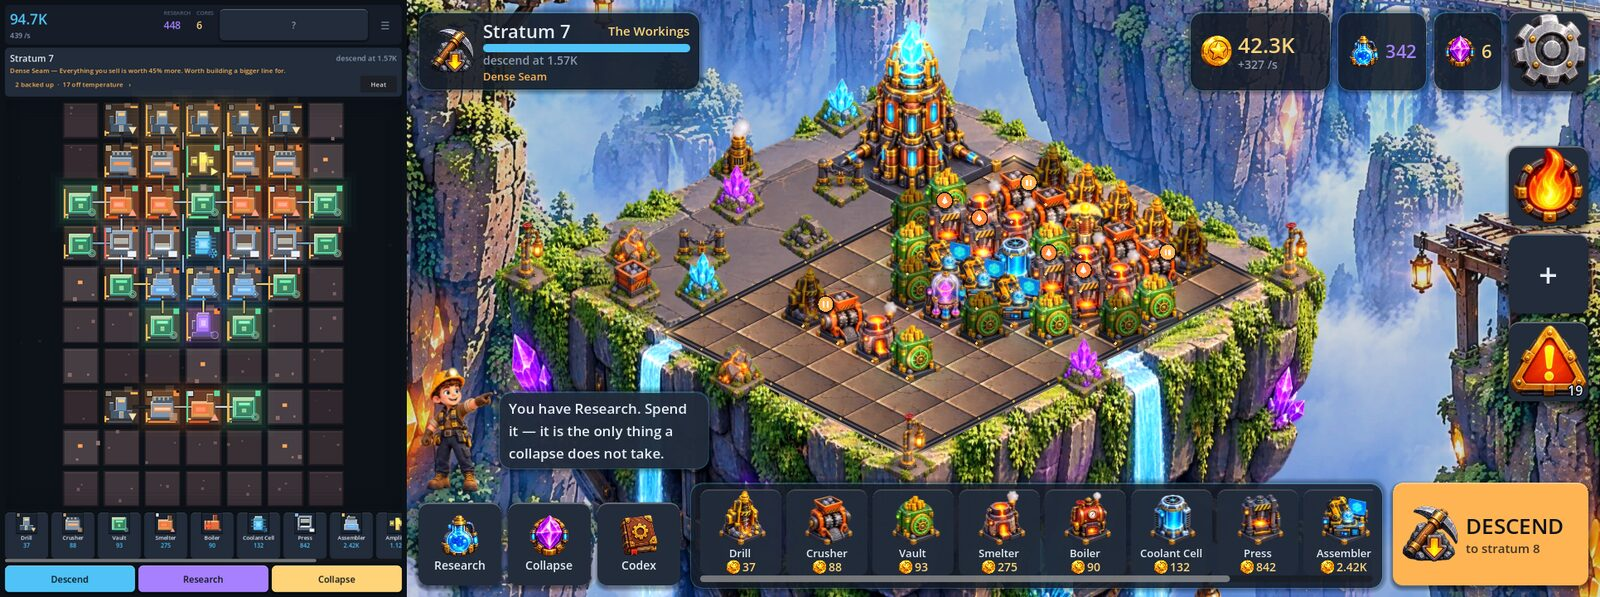
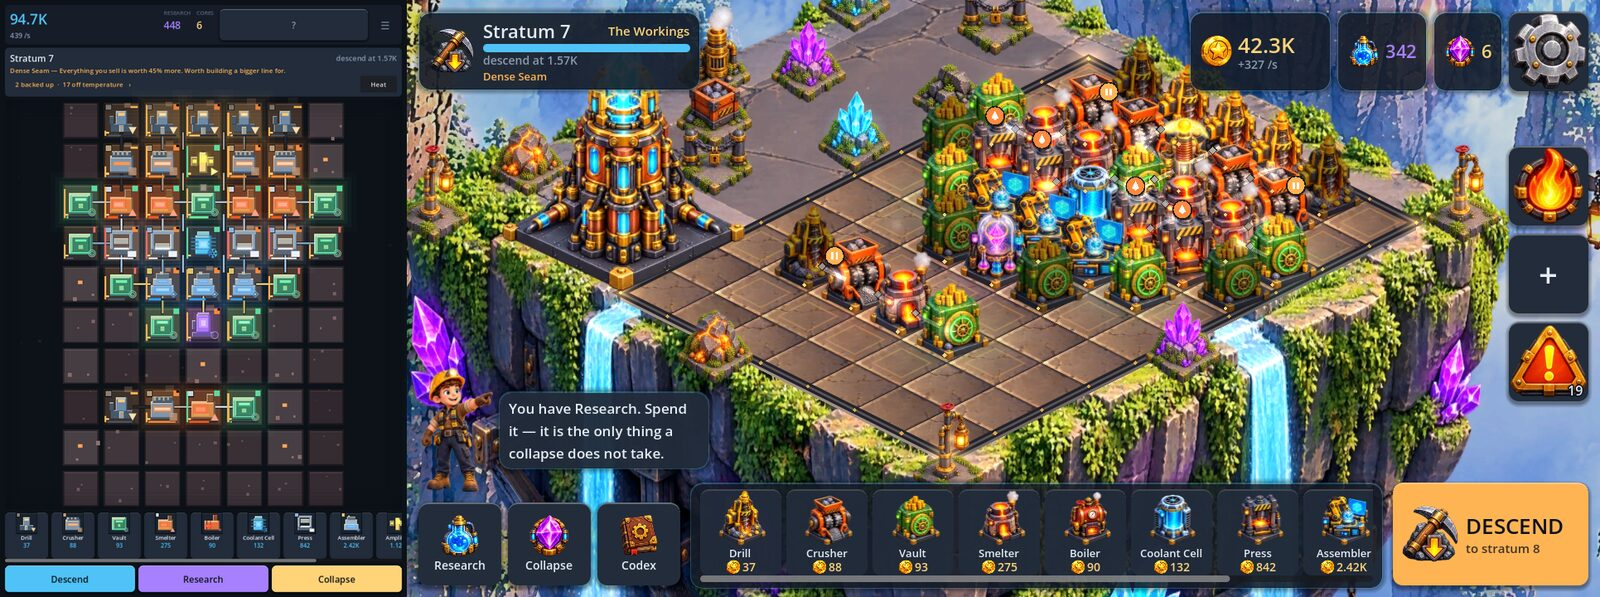
Frame the factory, not the world, in the default view
The default zoom showed the board at 11.8% of a 2:1 screen with 24-25 dp
cells: the framed rectangle carried two cell-heights of margin above the
board and the Factory Core's whole tower behind its back corner.

The margin above is now exactly how far the tallest machine sprite rises,
and the Core stands beside the board's left corner (slab 1..3, 8..10),
where it no longer sets the height; the expansion plot takes 1..3, 1..7.
Board share on 2:1 is 21.5% and a cell 32-34 dp on the phone shapes; the
board, cell and sprite scale are unchanged. 4:3 lost a little (21.4 to
18.5%, 55 dp) because the width binds there.

The default view also steps back while a HUD panel covers the board, which
the tighter frame exposed with a side notch. The layout check now fails if
the board drops under 18% of a landscape screen.

diff --git a/docs/AUDIT.md b/docs/AUDIT.md
@@ -150,7 +150,7 @@ column: UNKNOWN.
 | committed art | 0 | 6.76 MB (budget 40 MB); 15.5 MB imported |
 | colourfulness (Hasler-Suesstrunk) | 17.3 | 28.0 (reference concept: 30.3) |
 | readability, closest pair at 44 px | colour 20.8, grey 16.0 (from the old ART.md) | colour 18.9 (free palette), grey 11.8 (Slate); floors 9.0 / 6.0 |
-| board share of the screen | 48% (a 691x987 rectangle) | 11.8% at the default zoom on 2:1 (a diamond; the rest is world) |
+| board share of the screen | 48% (a 691x987 rectangle) | 21.5% at the default zoom on 2:1 (a diamond; the rest is world); 11.8% before the reframing below |
 
 **Decision.** The new renderer replaces the old on the main screen and
 `GridView` is deleted: it is the only one of the two that is the requested
@@ -168,23 +168,69 @@ a 96/48 side notch, a 40/36 top and gesture bar). No overlap, nothing
 outside the safe area, the whole board visible between the panels, on all
 33. Cell height is in dp for a device of that shape at the density given.
 
+Before -> after the reframing described in the next section.
+
 | screen | canvas | cell, default zoom | cell, closest zoom | board share |
 |---|---|---|---|---|
-| 16:9 1920x1080 @420 | 1440x810 | 24.7 dp | 52.0 dp | 14.2% |
-| 16:9 1280x720 @320 | 1440x810 | 21.6 dp | 45.5 dp | 14.2% |
-| 18:9 2160x1080 @400 | 1440x720 | 25.1 dp | 61.4 dp | 11.8% |
-| 19.5:9 2340x1080 @420 | 1560x720 | 23.9 dp | 58.5 dp | 10.9% |
-| 20:9 2400x1080 @405 | 1600x720 | 24.8 dp | 60.7 dp | 10.7% |
-| 21:9 2520x1080 @420 | 1680x720 | 23.9 dp | 58.5 dp | 10.2% |
-| 16:10 2560x1600 @300 | 1440x900 | 52.5 dp | 97.1 dp | 16.6% |
-| 4:3 2048x1536 @264 | 1440x1080 | 59.4 dp | 88.3 dp | 21.4% |
+| 16:9 1920x1080 @420 | 1440x810 | 24.7 -> 32.6 dp | 52.0 dp | 14.2 -> 24.7% |
+| 16:9 1280x720 @320 | 1440x810 | 21.6 -> 28.5 dp | 45.5 dp | 14.2 -> 24.7% |
+| 18:9 2160x1080 @400 | 1440x720 | 25.1 -> 33.9 dp | 61.4 dp | 11.8 -> 21.5% |
+| 19.5:9 2340x1080 @420 | 1560x720 | 23.9 -> 32.3 dp | 58.5 dp | 10.9 -> 19.9% |
+| 20:9 2400x1080 @405 | 1600x720 | 24.8 -> 33.5 dp | 60.7 dp | 10.7 -> 19.4% |
+| 21:9 2520x1080 @420 | 1680x720 | 23.9 -> 32.3 dp | 58.5 dp | 10.2 -> 18.5% |
+| 16:10 2560x1600 @300 | 1440x900 | 52.5 -> 60.8 dp | 97.1 dp | 16.6 -> 22.2% |
+| 4:3 2048x1536 @264 | 1440x1080 | 59.4 -> 55.3 dp | 88.3 dp | 21.4 -> 18.5% |
 
-The Cowork estimate of "about 32 dp at normal zoom, 51 dp close" was
-optimistic at normal zoom: it is 24-25 dp on the phones that matter, under
-Android's 48 dp. The camera is the answer (52-61 dp at the closest zoom),
-not a bigger default, because a bigger default loses the world. Every HUD
+The Cowork estimate of "about 32 dp at normal zoom, 51 dp close" holds now,
+after the reframing: 32-34 dp on the phones that matter. That is still
+under Android's 48 dp, so aiming at one cell precisely still means zooming
+in (52-61 dp at the closest zoom). 4:3 is the one shape that lost: the
+width binds there, and the Core beside the board's left corner makes the
+framed rectangle wider (21.4 -> 18.5%, cells 59 -> 55 dp, still above
+48 dp). Every HUD
 key is 96 canvas units: 48 dp or more on every shape except the 720p xhdpi
 16:9 phone, where they measure 43-44 dp (reported, not enforced).
+
+### The default view
+
+The first measurement of this round: at the default zoom the board was
+11.8% of a 2:1 screen with 24-25 dp cells, and the world, not the factory,
+was the main object. Two things set that zoom. The framed rectangle
+carried two cell-heights of margin above the board and 0.35 of a cell
+either side, and the Factory Core stood behind the board's back corner, so
+the view had to be tall enough for the Core's whole tower.
+
+Framings measured on the 2:1 canvas with its real free rectangle (a scratch
+probe; same numbers for 16:9 and 20:9 in the same order):
+
+| framing | zoom | cell | board share | Core |
+|---|---|---|---|---|
+| A: board + whole Core (as it was) | 0.655 | 25.1 dp | 12.2% | whole |
+| B: board only, old margins | 0.772 | 29.6 dp | 17.0% | cut |
+| C: board only, tight margins | 0.883 | 33.9 dp | 22.2% | cut |
+| D: tight + the Core's lower 60% | 0.812 | 31.2 dp | 18.8% | cut |
+| E: tight + Core moved to slab (1, 8) | 0.883 | 33.9 dp | 22.2% | whole |
+| F: tight + a 2x2 Core at slab (1, 8) | 0.883 | 33.9 dp | 22.2% | whole |
+
+**E** is what shipped: C's zoom with the Core still in view and at its
+size. The Core now stands on slab (1..3, 8..10), beside the board's left
+corner, where it no longer sets the height; the expansion plot takes slab
+(1..3, 1..7). The margin above the board is exactly how far the tallest
+machine sprite rises above the back corner (58 units, read from the sheet
+by `IsoView.board_frame_rect`), plus 6. The board, the cell and the sprite
+scale are unchanged -- only the camera's default moved.
+
+Framing tighter uncovered one case the free rectangle cannot see: with a
+96-unit side notch the resources panel, top right, reached the board's
+right corner. The default view now steps back 3% at a time (to 0.6 of the
+fit at most) while any HUD panel covers part of the board
+(`IsoView.board_under_panel`); the layout check passes 11 screens x 3 safe
+areas with it.
+
+Cost: none measured. Idle p50 / p95 / p99 10.8 / 14.9 / 16.9 ms, panning
+11.3 / 15.8 / 18.9 ms, zooming 11.0 / 16.1 / 17.9 ms, draw calls 176-184,
+a 60 s soak 12.7 / 18.4 / 22.4 ms with memory flat (45.1 -> 45.1 MB) --
+same machine and GPU as the table above; a phone: **UNKNOWN**.
 
 ### The 12-point comparison with the reference
 
@@ -197,9 +243,9 @@ can only be judged says so.
 |---|---|---|---|
 | 1 | Camera | **PASS** | 2:1 isometric, 45 degrees, as the directive asked (`test_the_projection_is_two_to_one`); pan, fling, pinch, wheel, bounds tested. The reference mock-ups are a front-facing 3/4 view; the directive's Clash-style 45 degrees was followed instead |
 | 2 | Perspective | **PARTIAL** | board, machines, island, props and Core share one camera; the world painting is a front-facing 3/4 view (the image model did not rotate it), softened by parallax |
-| 3 | World feel | **PASS** | island over a canyon, Core, expansion plot, props around the board; the board itself is 11.8% of the default screen and the rest is world. The old screen had no world |
+| 3 | World feel | **PASS** | island over a canyon, Core, expansion plot, props around the board; the board itself is 21.5% of the default 2:1 screen (11.8% before the reframing) and the rest is world. The old screen had no world |
 | 4 | Grid placement | **PASS** | whole board in the free area on 11 shapes x 3 safe areas, no panel over it (layout check) |
-| 5 | Machine scale | **PARTIAL** | plate = 76% of a cell; 24-25 dp cells at the default zoom are under the 48 dp floor, 52-61 dp at the closest zoom |
+| 5 | Machine scale | **PARTIAL** | plate = 76% of a cell; 32-34 dp cells at the default zoom (24-25 before the reframing) are under the 48 dp floor, 52-61 dp at the closest zoom |
 | 6 | Colour | **PARTIAL** | colourfulness 28.0 against 30.3 / 30.7; saturation 0.44 against 0.54-0.57 (`tools/visual_compare.py`) |
 | 7 | Light | **PARTIAL** | brightness 0.40 against 0.37-0.40 (matched), contrast 0.22 against 0.26; additive glows, no bloom (the compatibility renderer has no HDR 2D) |
 | 8 | Depth | **PASS** | back-to-front drawing tested; parallax, cliffs, contact shadows, raised slab. Connections behind nearer machines: see N4 |

diff --git a/docs/ART.md b/docs/ART.md
@@ -55,7 +55,7 @@ inconsistency the eye catches first.
   camera's speed and scales by zoom^0.82, never below what covers the
   screen, so the island reads as floating over the canyon.
 
-Readability before show: a cell at the default zoom is 24-25 dp tall on a
+Readability before show: a cell at the default zoom is 32-34 dp tall on a
 1080p phone (measured by `tools/layout_check.tscn`), which is enough to see
 the factory and too small to aim at precisely; at the closest zoom it is
 52-61 dp, above Android's 48 dp floor. A machine must be picked (tapped)
@@ -76,9 +76,11 @@ Back to front, each a layer of `IsoView`:
 | overlay | badges, flow beads, notches, previews, numbers, the selected machine's links | screen space, fixed size |
 
 **The slab** is 12 x 12 cells. The board sits at slab (4, 1); the Factory
-Core stands on slab (1..3, 1..3), behind the board's back corner, and takes
+Core stands on slab (1..3, 8..10), beside the board's left corner, and takes
 no board cell (`test_the_board_sits_on_the_island_and_inside_the_world`).
-Slab (1..3, 4..10) is **the expansion plot**: dimmed, outlined in dashes,
+It stood behind the back corner until the default view was tightened; there
+it set the view's height (docs/AUDIT.md, "The default view").
+Slab (1..3, 1..7) is **the expansion plot**: dimmed, outlined in dashes,
 with a padlocked barrier at each end. It is visual only -- no rule reads
 it -- and it is where a future expansion mechanic would open ground.
 
